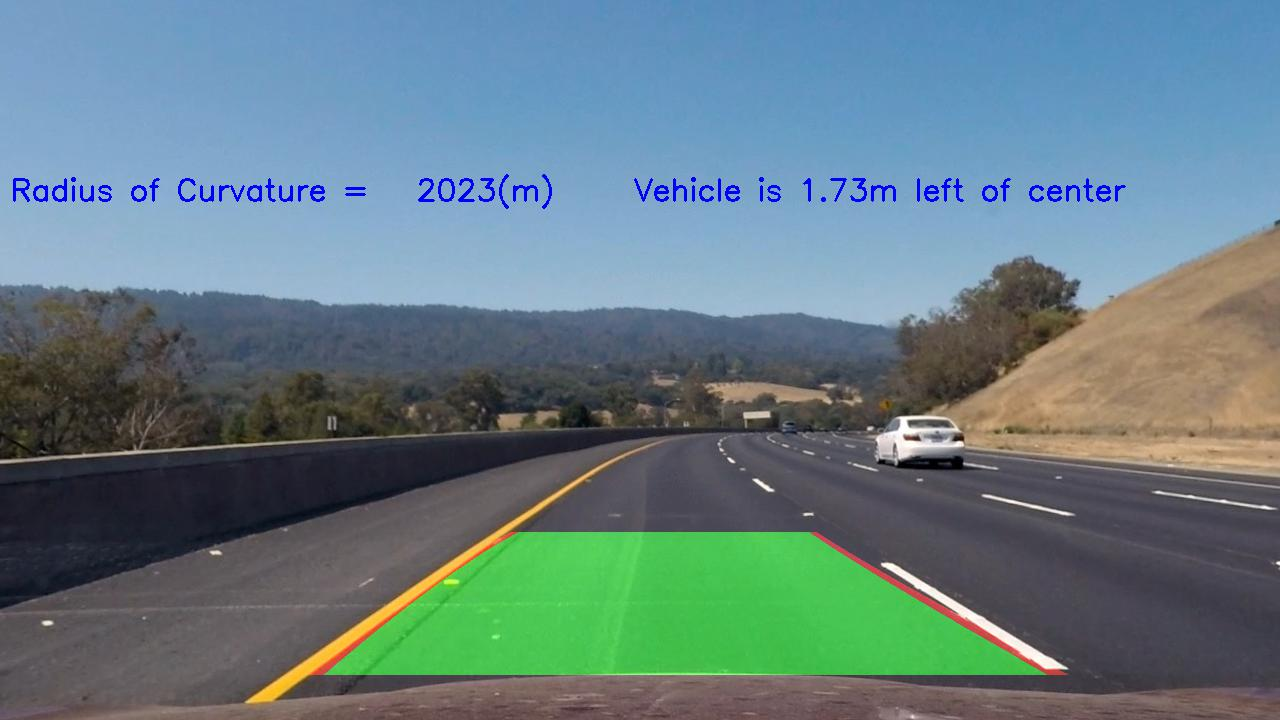
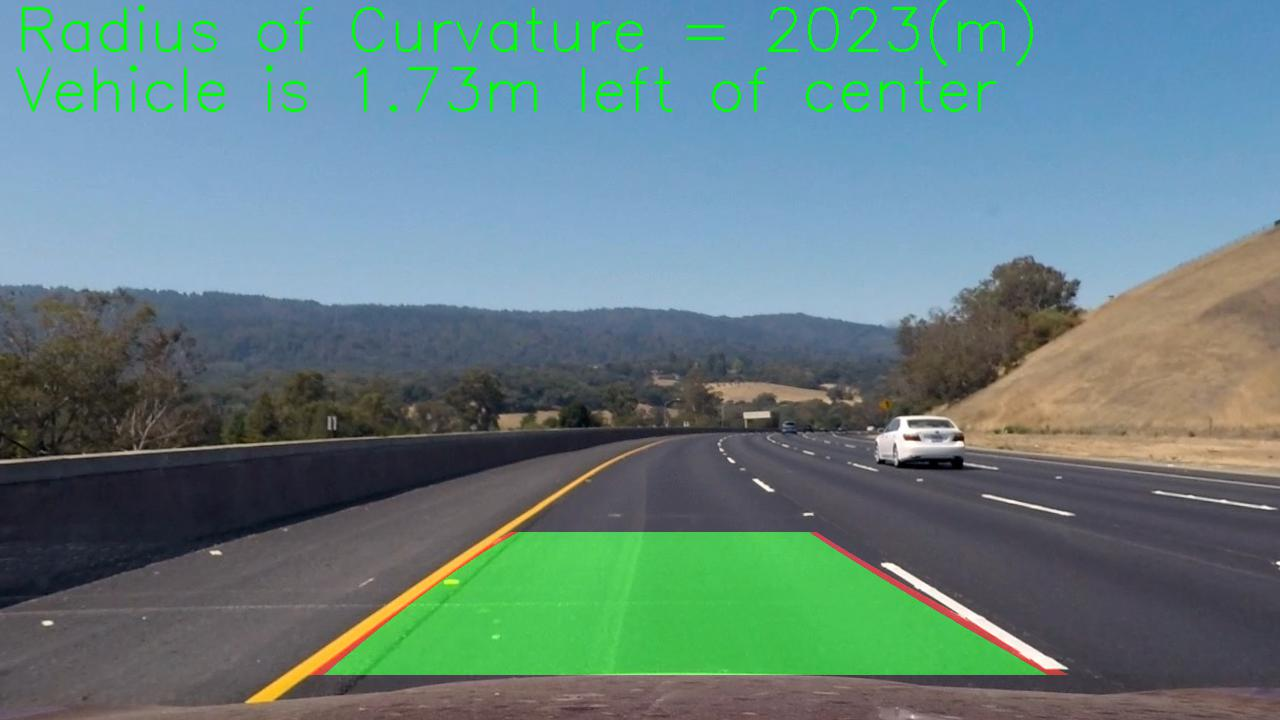
docu updated: writeup.md

diff --git a/advanced_lane_detect.py b/advanced_lane_detect.py
@@ -308,9 +308,10 @@ def process_img(image):
     left_curverad, right_curverad, mean_curverad, left_of_center = measure_curvature(polyfit_img, left_fitx, right_fitx, ploty, ratio=ratio)
     #print("Mean_CurveRad: ", mean_curverad, "Left_of_Center: ", left_of_center)
 
-    str_curv = (
-        "Radius of Curvature = %6d" % mean_curverad
-        + "(m)     Vehicle is %.2f" % left_of_center
+    str_curv1 = (
+        "Radius of Curvature =%5d" % mean_curverad
+        + "(m)")
+    str_curv2 = ("Vehicle is %.2f" % left_of_center
         + "m left of center"
     )
 
@@ -340,17 +341,26 @@ def process_img(image):
     
     cv2.putText(
         result_img,
-        str_curv,
-        (10, 200),
+        str_curv1,
+        (15, 50),
         cv2.FONT_HERSHEY_SIMPLEX,
-        fontScale=1,
-        color=(0,0,255),
+        fontScale=2,
+        color=(0,255,0),
+        thickness=2,
+    )
+    cv2.putText(
+        result_img,
+        str_curv2,
+        (15, 110),
+        cv2.FONT_HERSHEY_SIMPLEX,
+        fontScale=2,
+        color=(0,255,0),
         thickness=2,
     )
     
     return result_img
 
-
+"""
 images = glob.glob("test_images/test*.jpg")
 for fname in images:
     process_img.running_flag=0
@@ -365,6 +375,7 @@ for fname in images:
     plt.imsave(out_img,res)
 
     print(img.shape)
+"""    
 """
 from moviepy.editor import VideoFileClip
 from IPython.display import HTML
@@ -380,7 +391,6 @@ for fname in videos:
 
     img_clip = src_video.fl_image(process_img)
     img_clip.write_videofile(out_video, audio=False)
-"""
 """
 cap = cv2.VideoCapture(0)
 print(cap.get(cv2.CAP_PROP_FRAME_WIDTH), cap.get(cv2.CAP_PROP_FRAME_HEIGHT))
@@ -399,4 +409,3 @@ while(cap.isOpened()):
 
 cap.release()
 cv2.destroyAllWindows()    
-"""

diff --git a/writeup.md b/writeup.md
@@ -1,13 +1,11 @@
-## Writeup Template
-
-### You can use this file as a template for your writeup if you want to submit it as a markdown file, but feel free to use some other method and submit a pdf if you prefer.
-
+## PROJECT: ReND_Car_Advanced-Lane-Lines
+> AUTHOR: SungwookLE(joker1251@naver.com) </br>
+> DATE: '21.3/11 </br>
 ---
 
-**Advanced Lane Finding Project**
+### [1] Introduction
 
 The goals / steps of this project are the following:
-
 * Compute the camera calibration matrix and distortion coefficients given a set of chessboard images.
 * Apply a distortion correction to raw images.
 * Use color transforms, gradients, etc., to create a thresholded binary image.
@@ -16,72 +14,155 @@ The goals / steps of this project are the following:
 * Determine the curvature of the lane and vehicle position with respect to center.
 * Warp the detected lane boundaries back onto the original image.
 * Output visual display of the lane boundaries and numerical estimation of lane curvature and vehicle position.
+* [Rubric](https://review.udacity.com/#!/rubrics/571/view) Points is here
 
-[//]: # (Image References)
+### [2] MAIN
 
-[image1]: ./examples/undistort_output.png "Undistorted"
-[image2]: ./test_images/test1.jpg "Road Transformed"
-[image3]: ./examples/binary_combo_example.jpg "Binary Example"
-[image4]: ./examples/warped_straight_lines.jpg "Warp Example"
-[image5]: ./examples/color_fit_lines.jpg "Fit Visual"
-[image6]: ./examples/example_output.jpg "Output"
-[video1]: ./project_video.mp4 "Video"
-
-## [Rubric](https://review.udacity.com/#!/rubrics/571/view) Points
-
-### Here I will consider the rubric points individually and describe how I addressed each point in my implementation.  
-
----
-
-### Writeup / README
-
-#### 1. Provide a Writeup / README that includes all the rubric points and how you addressed each one.  You can submit your writeup as markdown or pdf.  [Here](https://github.com/udacity/CarND-Advanced-Lane-Lines/blob/master/writeup_template.md) is a template writeup for this project you can use as a guide and a starting point.  
-
-You're reading it!
-
-### Camera Calibration
-
-#### 1. Briefly state how you computed the camera matrix and distortion coefficients. Provide an example of a distortion corrected calibration image.
-
-The code for this step is contained in the first code cell of the IPython notebook located in "./examples/example.ipynb" (or in lines # through # of the file called `some_file.py`).  
-
-I start by preparing "object points", which will be the (x, y, z) coordinates of the chessboard corners in the world. Here I am assuming the chessboard is fixed on the (x, y) plane at z=0, such that the object points are the same for each calibration image.  Thus, `objp` is just a replicated array of coordinates, and `objpoints` will be appended with a copy of it every time I successfully detect all chessboard corners in a test image.  `imgpoints` will be appended with the (x, y) pixel position of each of the corners in the image plane with each successful chessboard detection.  
-
-I then used the output `objpoints` and `imgpoints` to compute the camera calibration and distortion coefficients using the `cv2.calibrateCamera()` function.  I applied this distortion correction to the test image using the `cv2.undistort()` function and obtained this result: 
-
-![alt text][image1]
-
-### Pipeline (single images)
-
-#### 1. Provide an example of a distortion-corrected image.
-
-To demonstrate this step, I will describe how I apply the distortion correction to one of the test images like this one:
-![alt text][image2]
-
-#### 2. Describe how (and identify where in your code) you used color transforms, gradients or other methods to create a thresholded binary image.  Provide an example of a binary image result.
-
-I used a combination of color and gradient thresholds to generate a binary image (thresholding steps at lines # through # in `another_file.py`).  Here's an example of my output for this step.  (note: this is not actually from one of the test images)
-
-![alt text][image3]
-
-#### 3. Describe how (and identify where in your code) you performed a perspective transform and provide an example of a transformed image.
-
-The code for my perspective transform includes a function called `warper()`, which appears in lines 1 through 8 in the file `example.py` (output_images/examples/example.py) (or, for example, in the 3rd code cell of the IPython notebook).  The `warper()` function takes as inputs an image (`img`), as well as source (`src`) and destination (`dst`) points.  I chose the hardcode the source and destination points in the following manner:
+#### [2-1] Camera Calibration
+Using `cv2.findChessboardCorners`, `cv2.drawChessboardCorners`, Find and Save `objpoints` and `imgpoints`.
+This `points` are chess check board that can make undistort the images. In this project, the chessboard images are
+`camera_cal/calibration*.jpg`.
 
 ```python
-src = np.float32(
-    [[(img_size[0] / 2) - 55, img_size[1] / 2 + 100],
-    [((img_size[0] / 6) - 10), img_size[1]],
-    [(img_size[0] * 5 / 6) + 60, img_size[1]],
-    [(img_size[0] / 2 + 55), img_size[1] / 2 + 100]])
-dst = np.float32(
-    [[(img_size[0] / 4), 0],
-    [(img_size[0] / 4), img_size[1]],
-    [(img_size[0] * 3 / 4), img_size[1]],
-    [(img_size[0] * 3 / 4), 0]])
+# Chess board (9,6)
+objp = np.zeros((6*9, 3), np.float32)
+objp[:,:2] = np.mgrid[0:9, 0:6].T.reshape(-1,2) 
+
+for fname in images:
+    img = cv2.imread(fname)
+    gray = cv2.cvtColor(img, cv2.COLOR_BGR2GRAY)
+    # Find the chessboard corners
+    ret, corners = cv2.findChessboardCorners(gray, (9,6), None)
+
+    if ret == True:
+        imgpoints.append(corners)
+        objpoints.append(objp)
+        img = cv2.drawChessboardCorners(img, (9,6), corners, ret)
 ```
 
-This resulted in the following source and destination points:
+#### [2-2] Camera Undistortion
+When using the single lense camrea, there is distortion effect. Therefore, `undistortion` process is needed.
+
+```python
+def cal_undistort(img, objpoints, imgpoints):
+    img_size = (img.shape[1], img.shape[0]) # x, y
+    ret, mtx, dist, rvecs, tvecs = cv2.calibrateCamera(objpoints, imgpoints, img_size, None, None)
+    undist = cv2.undistort(img, mtx, dist, None, mtx)
+
+    return undist
+```
+`objpoints` and `imgpoints` are used for `cv2.calibrateCamera` that returns 'ret','mtx','dist','rvecs','tvecs'.  
+Those values are used for `cv2.undistort` that returns undistorted image. Those `cv2` members help camera processing.
+
+#### [2-3] Image pixel Thresholding
+
+This process is needed to pick the specific pixels. In general, Color space thresholding and Gradient thresholding as known as `sobel`. Those two thresholding function flow are exactly similar. First, converting to gray scale image. Second, dividing image channels. Third, comparing value in each pixel whether bigger or smaller or not.
+Let's look at the each function.
+```python
+def color_thresholding(img, threshold=(0,255), opt=("rgb")):
+    # read using mpimg as R.G.B
+    img_in = np.copy(img)
+    
+    if (opt == "rgb"):
+        rgb = img_in
+        r_channel = rgb[:,:,0]
+        g_channel = rgb[:,:,1]
+        b_channel = rgb[:,:,2]
+
+        r_binary = np.zeros_like(r_channel)
+        r_channel = cv2.equalizeHist(r_channel)
+        r_binary[(r_channel >= threshold[0]) & (r_channel <= threshold[1])]=1
+
+        return r_binary
+    
+    elif (opt == "hls"):
+        hls = cv2.cvtColor(img_in, cv2.COLOR_RGB2HLS)
+        h_channel = hls[:,:,0]
+        l_channel = hls[:,:,1]
+        s_channel = hls[:,:,2]
+
+        s_binary = np.zeros_like(s_channel)
+        s_channel = cv2.equalizeHist(s_channel)
+        s_binary[(s_channel >= threshold[0]) & (s_channel <= threshold[1])]=1
+
+        return s_binary
+
+    else:
+        return img_in
+```
+Note: If you use `mpimg.imread()` then the image is composed of R.G.B channels. Otherwise, `cv.imread()` is composed of B.G.R channel.
+
+You can see the code, If opt is "rgb", image is divided as R,G,B. `cv2.equalizeHist` is needed for robust thresholding. This function make image's histogram set flatten. And Finally, Comparing the pixel values. If that value is satisfied the threshold, then set `1`, if not, set `0`.  
+
+Next is `gradient_thresholding`. It used `cv2.Sobel`. Sobel calculate pixel gradient value to each direction X, Y.
+```python
+def gradient_thresholding(img, threshold=(0,255), opt=("comb")):
+    # read using mpimg as R.G.B
+    img_in = np.copy(img)
+    gray= cv2.cvtColor(img_in, cv2.COLOR_RGB2GRAY)
+    gray = cv2.equalizeHist(gray)
+
+    img_sobel_x = cv2.Sobel(gray, cv2.CV_64F, 1,0, ksize=3)
+    img_sobel_y = cv2.Sobel(gray, cv2.CV_64F, 0,1, ksize=3)
+
+    abs_sobelx = np.absolute(img_sobel_x)
+    abs_sobely = np.absolute(img_sobel_y)
+
+    scaled_sobelx = np.uint8(
+        255*abs_sobelx / np.max(abs_sobelx)
+    )
+    scaled_sobely = np.uint8(
+        255*abs_sobely / np.max(abs_sobely)
+    )
+
+    img_sobel_xy = np.sqrt(img_sobel_x**2 + img_sobel_y**2)
+    scaled_sobelxy = np.uint8(
+        255*img_sobel_xy / np.max(img_sobel_xy)
+    ) 
+
+    direction = np.arctan2(abs_sobelx, abs_sobely)
+
+    if (opt == "comb"):
+        
+        binary_comb = np.zeros_like(scaled_sobelxy)
+        binary_comb[
+            (scaled_sobelxy >= threshold[0]) & (scaled_sobelxy <= threshold[1])
+        ]=1
+
+        return binary_comb
+    
+    elif (opt == "x"):
+        
+        binary_x = np.zeros_like(scaled_sobelx)
+        binary_x[
+            (scaled_sobelx >= threshold[0]) & (scaled_sobelx <= threshold[1])
+        ]=1
+
+        return binary_x
+
+    elif (opt == "y"):
+        
+        binary_y = np.zeros_like(scaled_sobely)
+        binary_y[
+            (scaled_sobely >= threshold[0]) & (scaled_sobely <= threshold[1])
+        ]=1
+
+        return binary_y
+
+    elif (opt =="dir"):
+
+        binary_dir = np.zeros_like(direction)
+        binary_dir[
+            (direction >= threshold[0]) & (direction <= threshold[1])
+        ]=1
+        return binary_dir
+    else:
+        return img_in
+```
+Almost same with 'color_thresholding`. 
+`img_sobel_x = cv2.Sobel(gray, cv2.CV_64F, 1,0, ksize=3)`, `img_sobel_y = cv2.Sobel(gray, cv2.CV_64F, 0,1, ksize=3)`. Those `cv2.Sobel` calculate pixel gradient values. Those values is compared threshold value. you may note that `opt=="dir"`. when this is selected,`direction = np.arctan2(abs_sobelx, abs_sobely)` is calculated.
+
+#### [2-3] Bird Eye View (Transforming to Perspective Image)
 
 | Source        | Destination   | 
 |:-------------:|:-------------:| 
@@ -89,39 +170,33 @@ This resulted in the following source and destination points:
 | 203, 720      | 320, 720      |
 | 1127, 720     | 960, 720      |
 | 695, 460      | 960, 0        |
+|||
 
-I verified that my perspective transform was working as expected by drawing the `src` and `dst` points onto a test image and its warped counterpart to verify that the lines appear parallel in the warped image.
+#### [2-4] Lane Pixel Finding (Search around pre-defined priority)
 
-![alt text][image4]
+#### [2-5] Calculating real distance, curvature value (Measuring Curvature)
 
-#### 4. Describe how (and identify where in your code) you identified lane-line pixels and fit their positions with a polynomial?
+#### [2-6] OVERALL Processing (Returning the Final processing results including visualization)
 
-Then I did some other stuff and fit my lane lines with a 2nd order polynomial kinda like this:
 
-![alt text][image5]
+### [3] RESULTS
 
-#### 5. Describe how (and identify where in your code) you calculated the radius of curvature of the lane and the position of the vehicle with respect to center.
+* Image outputs
+1. ![image1](./output_images/out_test1.jpg)
+2. ![image2](./output_images/out_test2.jpg)
+3. ![image3](./output_images/out_test3.jpg)
+4. ![image4](./output_images/out_test4.jpg)
+5. ![image5](./output_images/out_test5.jpg)
+6. ![image6](./output_images/out_test6.jpg)
 
-I did this in lines # through # in my code in `my_other_file.py`
+* Video output  
+1. [Challenge_video](./output_videos/out_challenge_video.mp4)  
+2. [Harder_Challenge_video](./output_videos/out_harder_challenge_video.mp4)  
+3. [Project_video](./output_videos/out_project_video.mp4)  
 
-#### 6. Provide an example image of your result plotted back down onto the road such that the lane area is identified clearly.
+### [4] DISCUSSION
 
-I implemented this step in lines # through # in my code in `yet_another_file.py` in the function `map_lane()`.  Here is an example of my result on a test image:
 
-![alt text][image6]
 
----
 
-### Pipeline (video)
 
-#### 1. Provide a link to your final video output.  Your pipeline should perform reasonably well on the entire project video (wobbly lines are ok but no catastrophic failures that would cause the car to drive off the road!).
-
-Here's a [link to my video result](./project_video.mp4)
-
----
-
-### Discussion
-
-#### 1. Briefly discuss any problems / issues you faced in your implementation of this project.  Where will your pipeline likely fail?  What could you do to make it more robust?
-
-Here I'll talk about the approach I took, what techniques I used, what worked and why, where the pipeline might fail and how I might improve it if I were going to pursue this project further.  

diff --git a/README.md b/README.md
@@ -2,18 +2,10 @@
 [![Udacity - Self-Driving Car NanoDegree](https://s3.amazonaws.com/udacity-sdc/github/shield-carnd.svg)](http://www.udacity.com/drive)
 ![Lanes Image](./examples/example_output.jpg)
 
-In this project, your goal is to write a software pipeline to identify the lane boundaries in a video, but the main output or product we want you to create is a detailed writeup of the project.  Check out the [writeup template](https://github.com/udacity/CarND-Advanced-Lane-Lines/blob/master/writeup_template.md) for this project and use it as a starting point for creating your own writeup.  
-
-Creating a great writeup:
----
-A great writeup should include the rubric points as well as your description of how you addressed each point.  You should include a detailed description of the code used in each step (with line-number references and code snippets where necessary), and links to other supporting documents or external references.  You should include images in your writeup to demonstrate how your code works with examples.  
-
-All that said, please be concise!  We're not looking for you to write a book here, just a brief description of how you passed each rubric point, and references to the relevant code :). 
-
-You're not required to use markdown for your writeup.  If you use another method please just submit a pdf of your writeup.
-
-The Project
----
+## PROJECT WRITEUP! **
+> AUTHOR: SungwookLE(joker1251@naver.com) </br>
+> DATE: '20.3/11 </br>
+> WriteUp including CodeReview is [Here](./writeup.md).
 
 The goals / steps of this project are the following:
 
@@ -31,9 +23,3 @@ The images for camera calibration are stored in the folder called `camera_cal`. 
 To help the reviewer examine your work, please save examples of the output from each stage of your pipeline in the folder called `output_images`, and include a description in your writeup for the project of what each image shows.    The video called `project_video.mp4` is the video your pipeline should work well on.  
 
 The `challenge_video.mp4` video is an extra (and optional) challenge for you if you want to test your pipeline under somewhat trickier conditions.  The `harder_challenge.mp4` video is another optional challenge and is brutal!
-
-If you're feeling ambitious (again, totally optional though), don't stop there!  We encourage you to go out and take video of your own, calibrate your camera and show us how you would implement this project from scratch!
-
-## How to write a README
-A well written README file can enhance your project and portfolio.  Develop your abilities to create professional README files by completing [this free course](https://www.udacity.com/course/writing-readmes--ud777).
-
